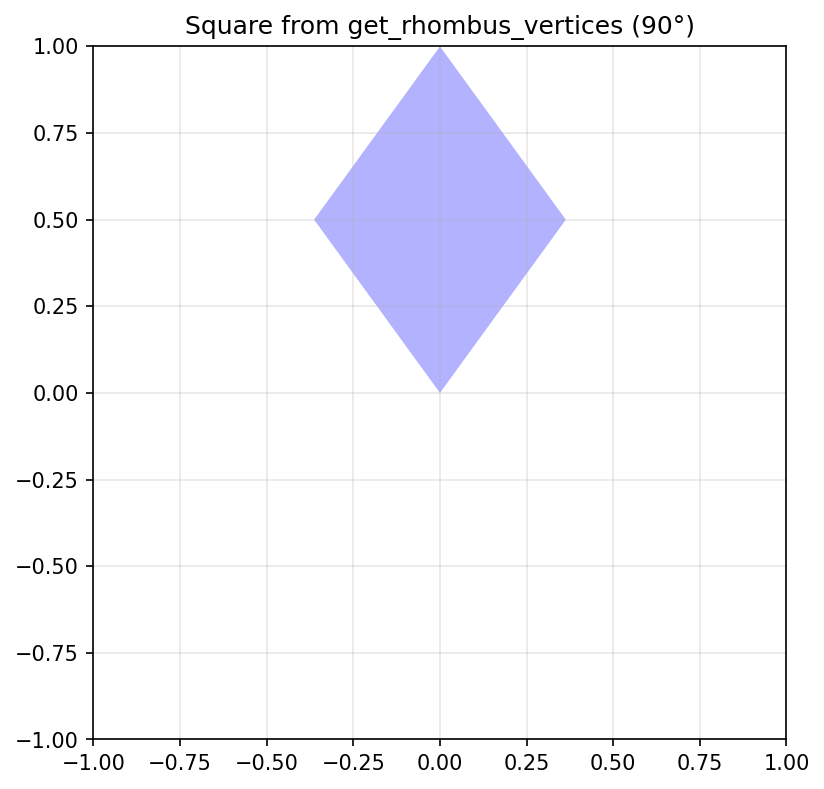
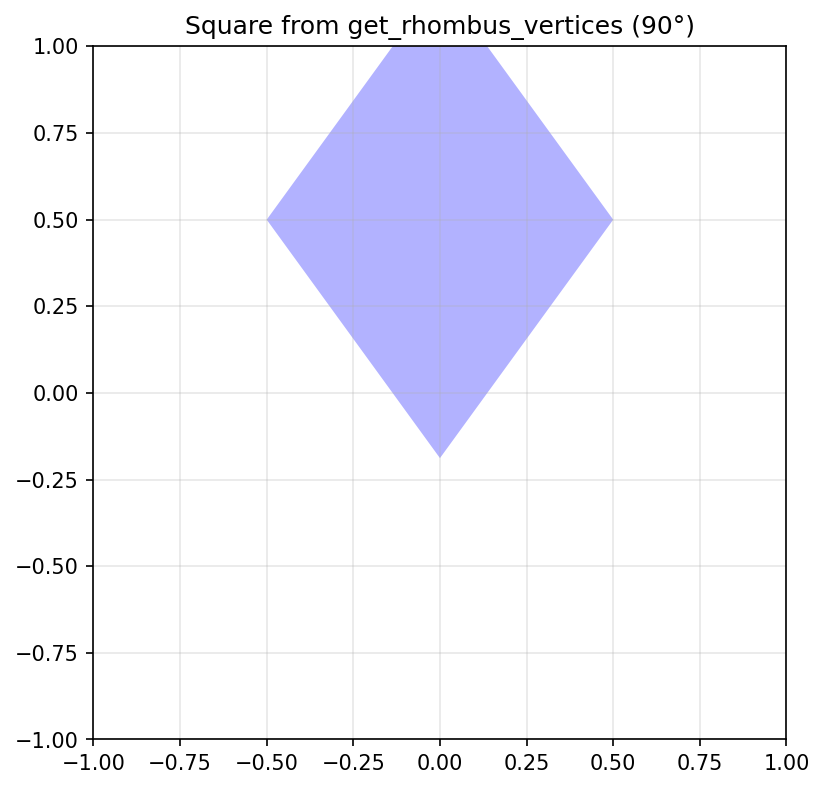
wip

Changed region(s): [[0.3034, 0.0608, 0.7585, 0.5779]]

diff --git a/test_main.py b/test_main.py
@@ -29,14 +29,14 @@ def plot_shapes(shapes: List[np.ndarray], filename: str = 'test_output.png', tit
 def test_square_tile():
     """Test creating a square tile using get_rhombus_vertices with 90° acute angle"""
     # A rhombus with 90° acute angle is a square
-    vertices = get_rhombus_vertices((0, 0), 0, 90)
+    first_tile = get_rhombus_vertices((0, 0), 0, 90)
 
     # Check we have 4 vertices
-    assert vertices.shape == (4, 2)
-    print(vertices)
+    assert first_tile.shape == (4, 2)
+    print(first_tile)
 
     # Check it's centered at origin
-    centroid = vertices.mean(axis=0)
+    centroid = first_tile.mean(axis=0)
     np.testing.assert_array_almost_equal(centroid, [0, 0])
 
     # For a square with edge_length = 1 and 90° acute angle:
@@ -50,14 +50,18 @@ def test_square_tile():
         [0, -expected_half_diag]
     ])
 
-    np.testing.assert_array_almost_equal(vertices, expected_vertices, decimal=5)
+    np.testing.assert_array_almost_equal(first_tile, expected_vertices, decimal=5)
 
 
 def test_draw_square():
     """Test drawing a square using get_rhombus_vertices"""
-    vertices = get_rhombus_vertices((0, 0.5), 90, 72)
+    first_tile = get_rhombus_vertices((0.0, 0.5), 90, 72)
 
+    # second_tile = get_rhombus_vertices((0, 0.5), 90 + 5, 72)
 
-    plot_shapes([vertices], filename='test_square.png', title='Square from get_rhombus_vertices (90°)')
+    plot_shapes([
+        first_tile,
+        # second_tile,
+    ], filename='test_square.png', title='Square from get_rhombus_vertices (90°)')
 
-    assert vertices.shape == (4, 2)
+    assert first_tile.shape == (4, 2)

diff --git a/main.py b/main.py
@@ -40,21 +40,22 @@ def get_rhombus_vertices(
         [0, -d2],     # Bottom (acute)
     ])
 
-    # Rotate
+    # Normalize vertical height (before rotation)
+    actual_height = 2 * d2  # vertical height of unrotated rhombus
+    height_scale = height / actual_height
+    vertices *= height_scale
+
+    # Translate to center
+    center_array = np.array(center)
+    vertices += center_array
+
+    # Rotate around center
     angle_rad = np.radians(angle)
     rotation = np.array([
         [np.cos(angle_rad), -np.sin(angle_rad)],
         [np.sin(angle_rad), np.cos(angle_rad)]
     ])
-    vertices = vertices @ rotation.T
-
-    # Calculate actual height after rotation
-    actual_height = vertices[:, 1].max() - vertices[:, 1].min()
-    height_scale = height / actual_height
-    vertices *= height_scale
-
-    # Translate
-    vertices += np.array(center)
+    vertices = (vertices - center_array) @ rotation.T + center_array
 
     return vertices
 
